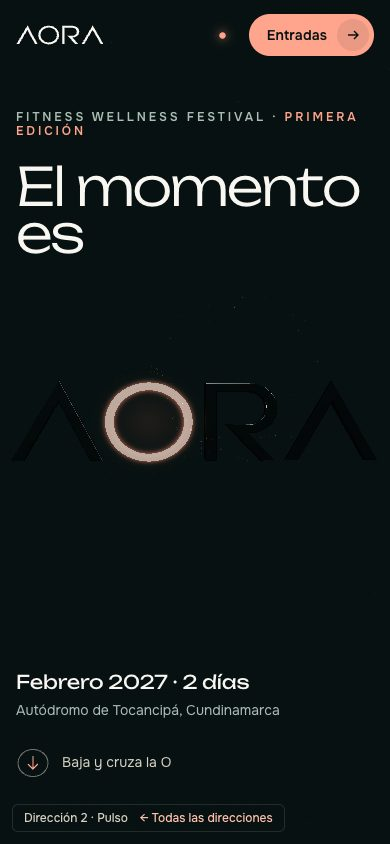
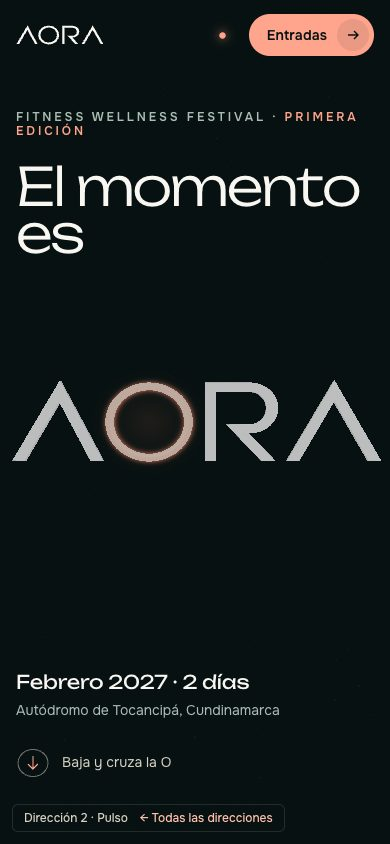
Ajustes finales: Pulso, Destello y Órbita

Changed region(s): [[0.5231, 0.4313, 0.7077, 0.5545], [0.7385, 0.4313, 0.9846, 0.5545], [0.0308, 0.4313, 0.2769, 0.5545]]

diff --git a/d/orbita.html b/d/orbita.html
@@ -119,8 +119,10 @@ html.gl .hero__logo{position:absolute;width:1px;height:1px;overflow:hidden;clip:
 .hero__fallback{position:relative;z-index:1;display:flex;gap:var(--s-2);padding:var(--s-4) var(--gut) var(--s-5)}
 .hero__fallback img{width:calc((100% - 2 * var(--s-2))/3);aspect-ratio:1;object-fit:cover;border-radius:50%;filter:saturate(.75) contrast(1.05)}
 html.gl .hero__fallback{display:none}
-.hero__b{position:absolute;z-index:2;left:var(--gut);top:calc(84px + var(--s-3));max-width:min(34rem,86vw);pointer-events:none;visibility:hidden}
+.hero__b{position:absolute;z-index:2;isolation:isolate;left:var(--gut);top:calc(84px + var(--s-3));max-width:min(34rem,86vw);pointer-events:none;visibility:hidden}
 html:not(.js) .hero__b{display:none}
+.hero__b::before{content:"";position:absolute;z-index:-1;left:calc(var(--gut) * -1);right:calc(var(--gut) * -1);top:-140px;bottom:-56px;background:linear-gradient(to bottom,var(--bg) 0%,var(--bg) 78%,rgba(26,37,36,0) 100%);pointer-events:none}
+@media (min-width: 901px){.hero__b::before{right:-30%;background:radial-gradient(120% 90% at 20% 40%,var(--bg) 55%,rgba(26,37,36,0) 100%)}}
 .hero__bt{font-family:var(--f-d);font-weight:700;font-size:var(--t-xl);letter-spacing:-.035em;line-height:.98;margin-top:var(--s-2)}
 .hero__bh{margin-top:var(--s-2);color:var(--mute);max-width:24rem}
 .hero__band{position:relative;z-index:3;display:grid;grid-template-columns:1fr auto auto;align-items:end;gap:var(--s-4);padding:var(--s-3) var(--gut) calc(var(--s-4) + 28px);background:var(--bg)}
@@ -663,7 +665,7 @@ async function initGL(){
     renderer.setSize(W, Hh, false);
     camera.aspect = W/Hh;
     const visW = 2*D*Math.tan(THREE.MathUtils.degToRad(18))*camera.aspect;
-    fit = clamp(visW*.7/5.2, .48, 1.05);
+    fit = camera.aspect < .8 ? clamp(visW*.88/5.2, .4, 1) : clamp(visW*.7/5.2, .48, 1.05);
     world.scale.setScalar(fit);
     const off = (band.offsetHeight - 70) * .5;
     camera.setViewOffset(W, Hh, 0, Math.max(0, off), W, Hh);
@@ -715,7 +717,7 @@ async function initGL(){
     smooth.px = lerp(smooth.px, ndc.x<5?ptr.x:0, .06); smooth.py = lerp(smooth.py, ndc.y<5?ptr.y:0, .06);
     logo.rotation.y = lerp(-1.2, 0, k) + smooth.px*.22 + Math.sin(t*.4)*.05;
     logo.rotation.x = -smooth.py*.12 + lerp(0, .12, ep);
-    logo.position.y = lerp(-.7, 0, k) + lerp(0, .1, ep);
+    logo.position.y = lerp(-.7, 0, k) + lerp(0, camera.aspect < .8 ? -.75 : .1, ep);
     araMat.opacity = k * (1 - sstep(.28, .62, p)); ara.visible = araMat.opacity > .01;
     ara.position.z = -q*1.4; ara.position.y = -q*.35;
     oAng += dt*lerp(RM?0:.25, 1.1, q);

diff --git a/d/destello.html b/d/destello.html
@@ -175,14 +175,14 @@ main, .site-foot{position:relative; z-index:1}
 .hero-meta span + span::before{content:""; width:5px; height:5px; border-radius:50%; background:var(--peach); box-shadow:0 0 10px 2px color-mix(in oklab, var(--peach) 70%, transparent)}
 .hero-title{grid-column:1 / -1; grid-row:2; position:relative; z-index:2; font-size:var(--t-display); line-height:.86; letter-spacing:-.04em; font-variation-settings:"opsz" 96}
 .hero-title .l1, .hero-title .l2{display:block}
-.hero-title .l2{display:flex; align-items:flex-end; gap:.22em; padding-left:16.5%}
+.hero-title .l2{display:flex; align-items:flex-end; gap:.22em; padding-left:9%}
 .hero-logo{height:.7em; width:auto; flex:none; color:var(--logo); margin-bottom:.06em; overflow:visible}
-.hero-ph{grid-column:7 / -1; grid-row:2 / 5; height:min(74dvh, 760px); margin-top:calc(var(--t-display) * .5); align-self:start}
+.hero-ph{grid-column:8 / -1; grid-row:2 / 5; height:min(74dvh, 760px); margin-top:calc(var(--t-display) * .5); align-self:start}
 .hero-copy{grid-column:1 / 6; grid-row:3; align-self:start; display:grid; gap:var(--s3); padding:var(--s5) 0 var(--s2)}
 .hero-where{display:grid; grid-template-columns:auto 1fr; gap:.2rem 1.2rem; font-size:.95rem; line-height:1.45; padding-top:var(--s2); border-top:1px solid var(--line)}
 .hero-where dt{grid-column:1} .hero-where dd{margin:0; grid-column:2}
 .hero-cta{display:flex; flex-wrap:wrap; gap:1rem 1.6rem; align-items:center}
-.hero-cap{grid-column:7 / -1; grid-row:5; margin-top:.8rem}
+.hero-cap{grid-column:8 / -1; grid-row:5; margin-top:.8rem}
 .hero-ph{grid-row:2 / 5}
 
 /* ---------- LUZ (pin 1: la foto se abre y la luz la quema) ---------- */

diff --git a/d/pulso.html b/d/pulso.html
@@ -685,7 +685,7 @@ function initPortal() {
   const shapes = svgData.paths.flatMap(p => SVGLoader.createShapes(p));
   const araGeo = new THREE.ExtrudeGeometry(shapes, { depth: 22, bevelEnabled: true, bevelThickness: 5, bevelSize: 2.2, bevelSegments: MOBILE ? 2 : 5, curveSegments: MOBILE ? 8 : 18 });
   araGeo.translate(-OX, -OY, -11);
-  const araMat = new THREE.MeshPhysicalMaterial({ color: 0x142323, metalness: 0.5, roughness: 0.28, clearcoat: 1, clearcoatRoughness: 0.16, envMapIntensity: MOBILE ? 0.7 : 0.32 });
+  const araMat = new THREE.MeshPhysicalMaterial({ color: 0x3a4a46, emissive: new THREE.Color(0xF9F7F2), emissiveIntensity: 0, metalness: 0.35, roughness: 0.3, clearcoat: 1, clearcoatRoughness: 0.16, envMapIntensity: MOBILE ? 0.7 : 0.32 });
   const ara = new THREE.Mesh(araGeo, araMat);
   ara.scale.set(S, -S, S);
 
@@ -865,6 +865,7 @@ function initPortal() {
     if (!visible) return;
     const { kick, phase } = beat;
     // pulso en el anillo
+    araMat.emissiveIntensity = fx.fade * (MOBILE ? 1.5 : 0.85);
     ringMat.emissiveIntensity = fx.glow * (2.1 + kick * 4.2) * (MOBILE ? 0.6 : 1);
     ring.scale.set(1 + kick * 0.03, 0.903 * (1 + kick * 0.03), 1 + kick * 0.03);
     haloMat.uniforms.uKick.value = kick; haloMat.uniforms.uAmp.value = fx.glow * (MOBILE ? 2.6 : 0.6);
